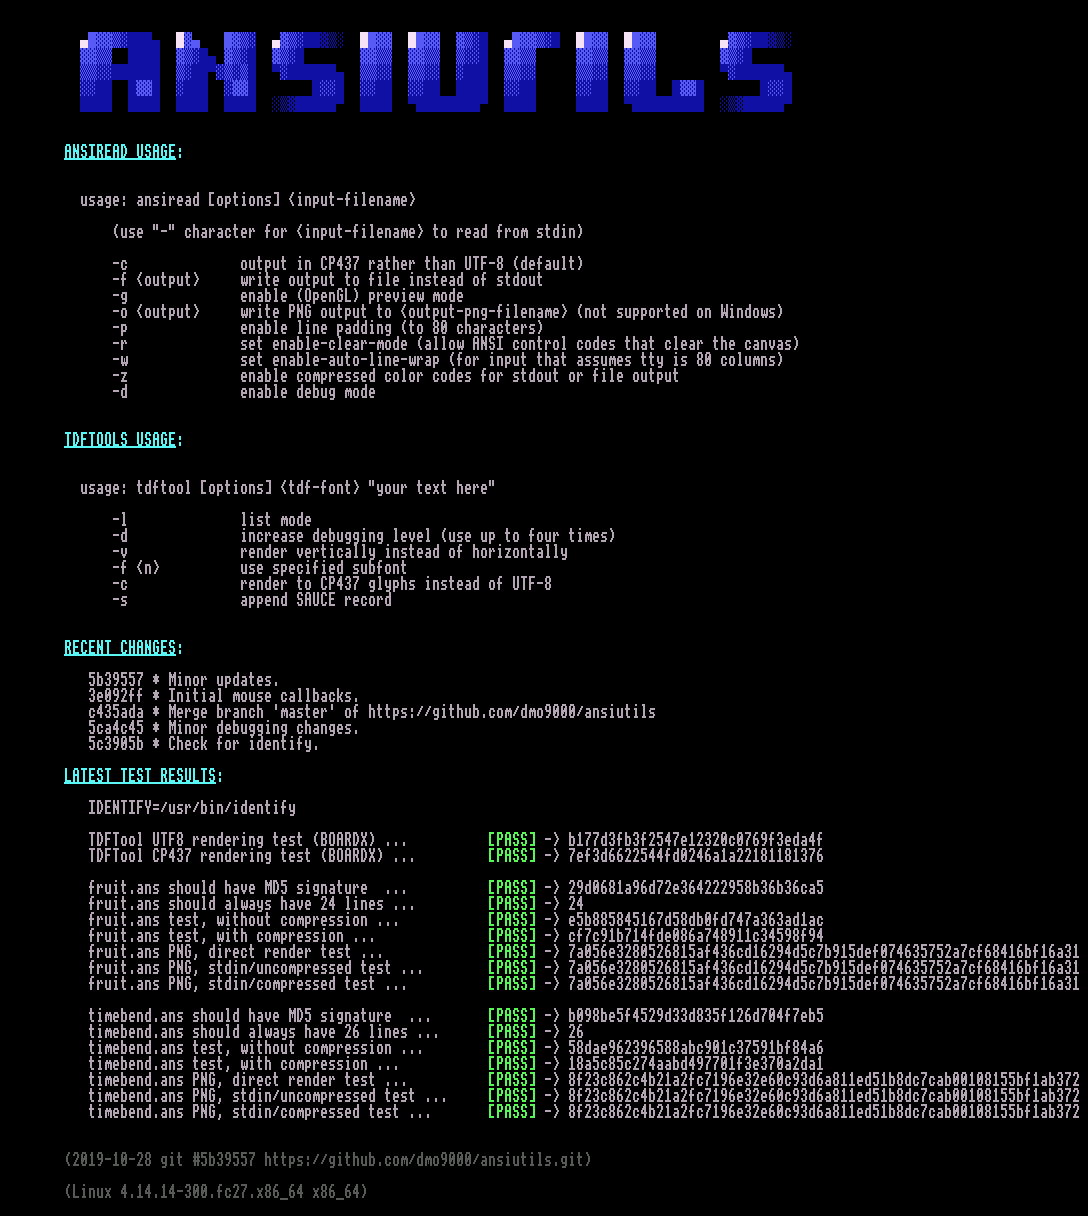
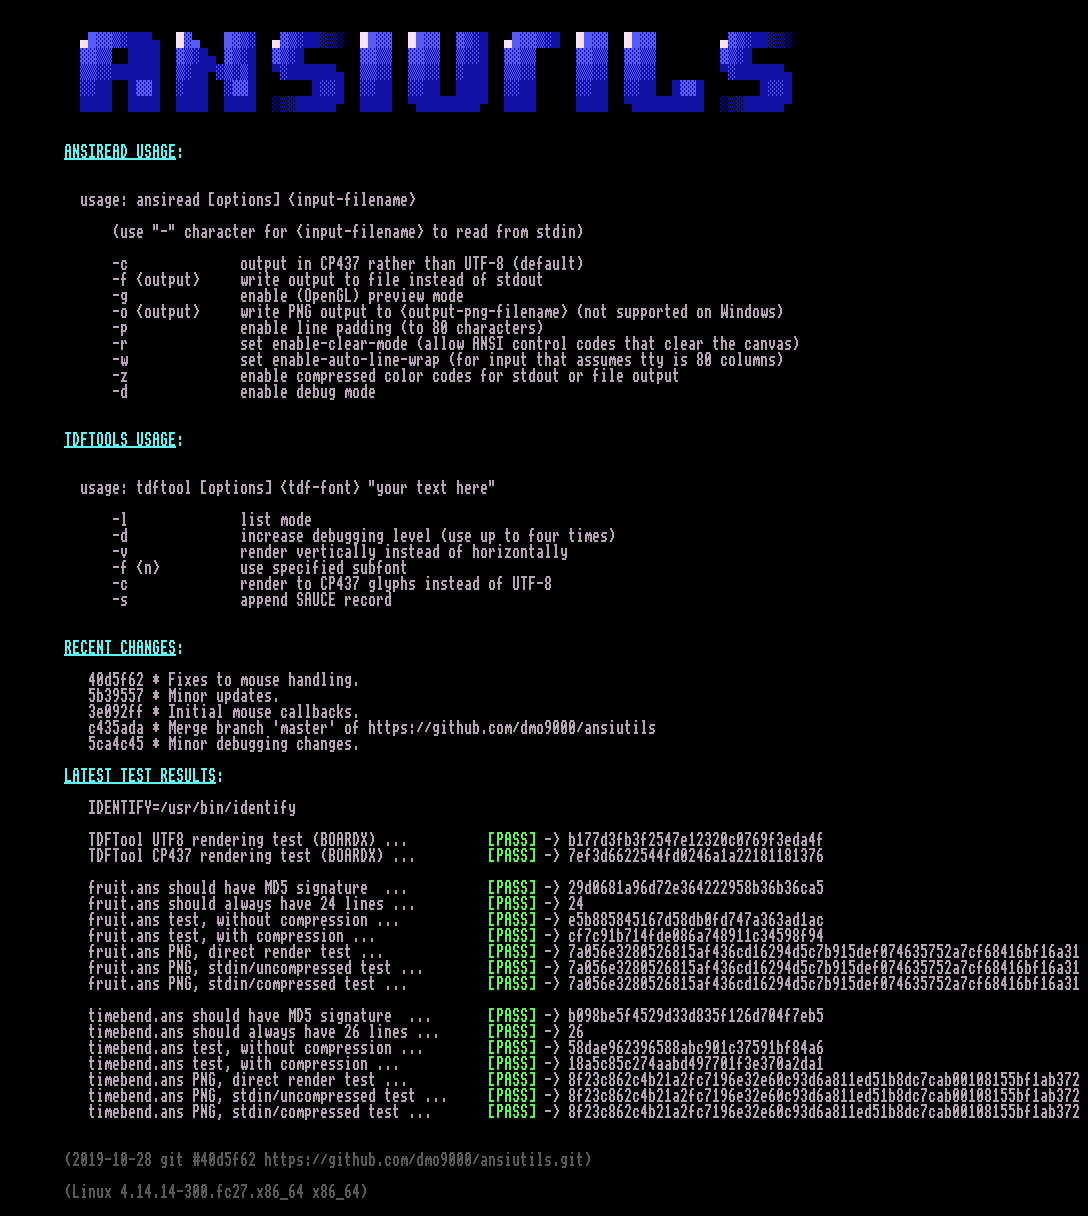
Hide cursor.

diff --git a/gfx_opengl.c b/gfx_opengl.c
@@ -508,6 +508,7 @@ int gfx_opengl_main(ANSICanvas *c, uint16_t xsize, uint16_t ysize, int multiplie
     glutMouseFunc(process_Mouse_Input);
     glutMotionFunc(process_Mouse_Move);
     glutPassiveMotionFunc(process_Mouse_Move);
+		glutSetCursor(GLUT_CURSOR_NONE);
     assert(c);
     myCanvas = c;
 
